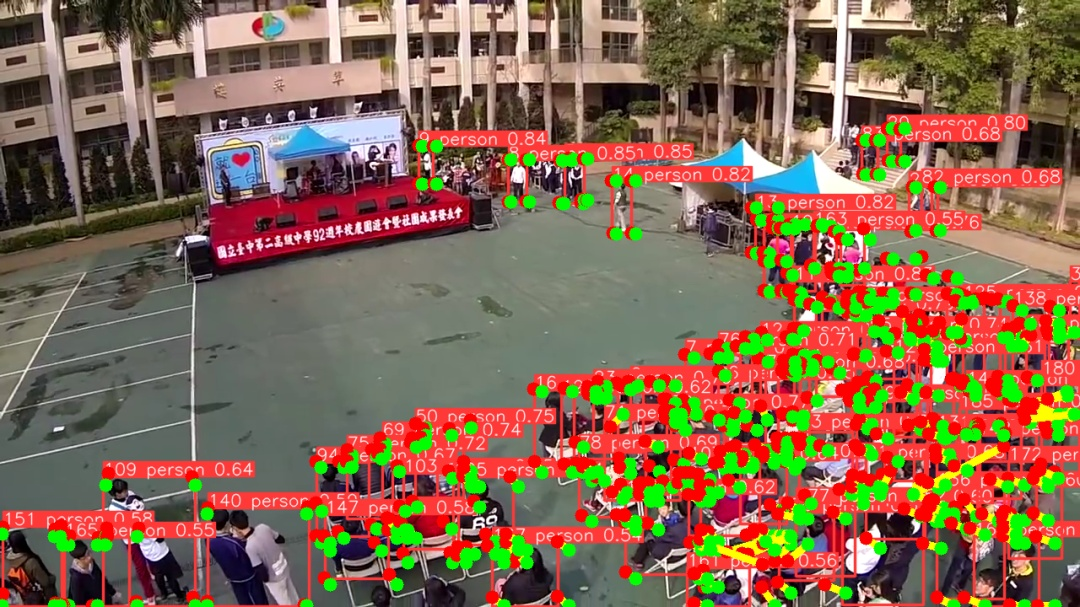
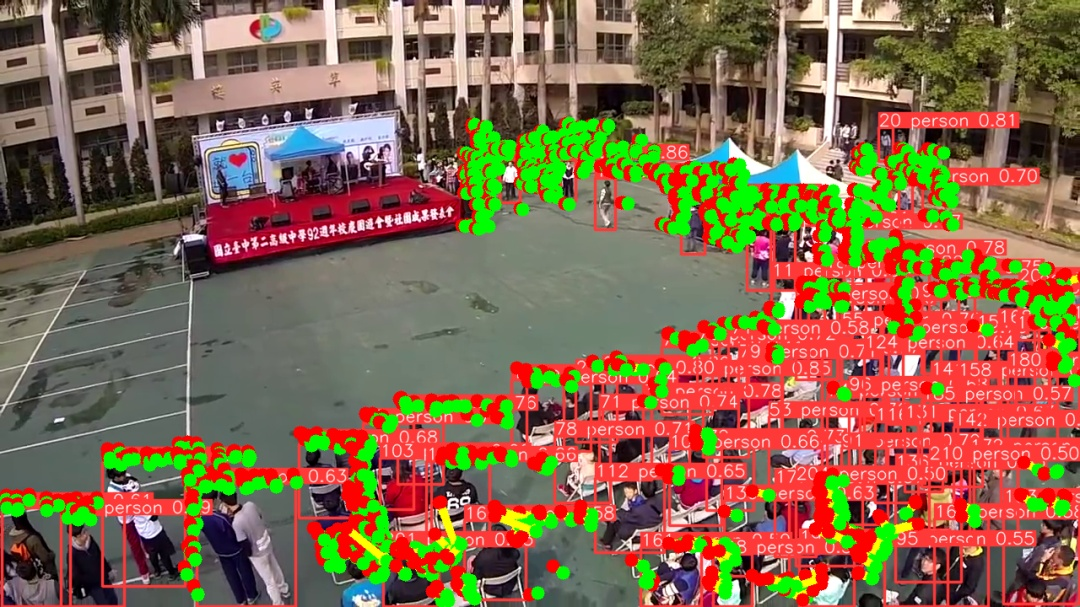
(updata)use cv2 detect keypoints & little optimize

diff --git a/optflow.py b/optflow.py
@@ -26,7 +26,7 @@ class Optflow:
             box_img = np.zeros((end_y - start_y, end_x - start_x, 3), dtype=np.int32)
             box_img[0:end_y - start_y, 0:  end_x - start_x] = 255
             mask[start_y:end_y, start_x:end_x] = box_img
-        # cv2.imwrite('mask.jpg', mask)
+        cv2.imwrite('mask.jpg', mask)
         return mask
         
     
@@ -49,20 +49,20 @@ class Optflow:
             pid = pp.id
             ppl_box = np.array(box_list[pid]).astype(np.int32)
             # 外拓，以方便獲取周圍的feature
-            ppl_box += np.array([-10, -10, 10, 10])
+            ppl_box += np.array([-50, -50, 50, 50])
             # 避免<0的位置
             for i in range(4):
                 if ppl_box[i] < 0 :
                     ppl_box[i] = 0
             # 取box範圍內的img和masked_img
             person_box_masked_img = masked_img[ppl_box[1]:ppl_box[3], ppl_box[0]:ppl_box[2], :]
+            person_box_origin_img = im0[ppl_box[1]:ppl_box[3], ppl_box[0]:ppl_box[2], :]
             # 取box範圍內的特徵點(相對位置)
-            person_outer_features = self.get_features(person_box_masked_img)
+            person_outer_features = self.get_features(person_box_origin_img, person_box_masked_img)
             
             # 相對位置->絕對位置
             for feature in person_outer_features:
                 feature += [ppl_box[0], ppl_box[1]]
-                
                 img = cv2.circle(img, (feature[0], feature[1]), 10, [0,255,0], -1)
             
             people_outer_features_dict[pp.id] = person_outer_features
@@ -71,25 +71,53 @@ class Optflow:
 
         #key: crowd_id, value : features
         return people_outer_features_dict
-    # 取人群的輪廓（最多x個點作為特徵)
-    def get_features(self, masked_img):
+    # 取人群的輪廓
+    def get_features(self, im0, masked_img):
         # 參考來源：https://iter01.com/547012.html
         # ret, binary = cv2.threshold(masked_img, 127, 255, cv2.THRESH_BINARY)
-        masked_img = cv2.cvtColor(masked_img, cv2.COLOR_BGR2GRAY)
-        masked_img = np.array(masked_img,np.uint8)
-        contours, hierarchy = cv2.findContours(masked_img, cv2.RETR_TREE, cv2.CHAIN_APPROX_SIMPLE)
-        # draw_img0 = cv2.drawContours(masked_img.copy(), contours, -1,(0,0,255),3)
         
-        contours = np.array(list(contours), dtype = object)
+        # detect : https://blog.csdn.net/amusi1994/article/details/79591205
         
-        #trans. data structure to [ [ point coordination ], [ ], ...]
-        res = np.empty(shape= (1,2), dtype=np.int64)
-        for c in contours:
-            c = c.reshape(c.shape[0]*c.shape[1], 2)
-            res = np.concatenate((res, c))
-        res = res[1:]
+        # akaze = cv2.AKAZE_create()
+        # keypoints = akaze.detect(im0, None)
         
-        return res
+        kaze = cv2.KAZE_create()
+        keypoints = kaze.detect(im0, None)
+        
+        # surf = cv2.xfeatures2d.SURF_create()
+        # keypoints = surf.detect(im0, None)
+        
+        # brisk = cv2.BRISK_create()
+        # keypoints = brisk.detect(im0, None)
+        
+        # --------
+        all_keypoints = []
+        for keypoint in keypoints:
+            keypoint = np.array(keypoint.pt, dtype= np.int32)
+            if not self.is_in_ppbox(keypoint, masked_img):
+                all_keypoints.append(keypoint)
+        all_keypoints = np.array(all_keypoints, dtype = np.int32)
+
+        # all_keypoints = np.astype(shape= (1,2), dtype=np.int64)
+        
+        # masked_img = cv2.cvtColor(masked_img, cv2.COLOR_BGR2GRAY)
+        # masked_img = np.array(masked_img,np.uint8)
+        
+        # contours, hierarchy = cv2.findContours(masked_img, cv2.RETR_TREE, cv2.CHAIN_APPROX_SIMPLE)
+        # # draw_img0 = cv2.drawContours(masked_img.copy(), contours, -1,(0,0,255),3)
+        
+        # contours = np.array(list(contours), dtype = object)
+        
+        # #trans. data structure to [ [ point coordination ], [ ], ...]
+        # res = np.empty(shape= (1,2), dtype=np.int64)
+        # for c in contours:
+        #     c = c.reshape(c.shape[0]*c.shape[1], 2)
+        #     res = np.concatenate((res, c))
+        # res = res[1:]
+        
+        
+        
+        return all_keypoints
 
                
 

diff --git a/pptrack_handler.py b/pptrack_handler.py
@@ -1,4 +1,5 @@
 from ast import Lambda
+from audioop import avg
 from faulthandler import disable
 
 from matplotlib.image import imsave
@@ -100,7 +101,7 @@ def affect_by_optflow(person_data, optflow_result):
     
     for pdata, opt_res_id in zip(person_data, optflow_result):
         optdata = optflow_result[opt_res_id]
-
+        
         #取opt res的平均位移量
         start_p_list = optdata['start']
         end_p_list = optdata['end']
@@ -119,12 +120,27 @@ def affect_by_optflow(person_data, optflow_result):
         #     scope = angle/45
         #     scope_count[scope]+= 1
         #...未完成
-        if len(vec_list)!= 0:
+        len_vec_list = len(vec_list)
+        if len_vec_list!= 0:
             for vec in vec_list:
                 total_vector += vec
-            avg_vector = total_vector/len(vec_list)
+            avg_vector = total_vector/len_vec_list
+            # print(pdata.vector, vec_list, avg_vector)
+            # for vec in vec_list:
+            #     if abs(dist(vec) - dist(avg_vector)) > 5:
+            #         total_vector -= vec
+            #         len_vec_list -= 1
+            # if len_vec_list == 0:
+            #     continue
+            avg_vector = total_vector/len_vec_list
+            # if dist(avg_vector) < 4:
+            #     continue
+            # print(pdata.vector, avg_vector)
+            print('before: ', pdata.vector)
+            print('avg_vector: ',avg_vector)
             pdata.vector -= avg_vector
-        
+            pdata.vector = [int(pdata.vector[0]), int(pdata.vector[1])]
+            print('after: ', pdata.vector)
         
             
     return person_data

diff --git a/track.py b/track.py
@@ -401,7 +401,7 @@ def run(
                                     optflow_result[id] = {"start": result0, "end": result1}
                                     
                                     optflow_output_img = optflow.draw_optflow(optflow_output_img, result0, result1)
-                            show('optfolw_result', optflow_output_img, showout = False)
+                            show('optfolw_result', optflow_output_img, showout = True)
                             
                             # !!!!!!!!!!!!!!!!optflow result (USE THIS!!!!!!!)
                             # print("optflow_result: ", optflow_result)
@@ -437,8 +437,10 @@ def run(
                             arrow_prev_time = time.time()
                             # 利用optflow結果影響person_data的vector
                             pdata = pptrack_handler.trans_data2ppdata()
-                            Flow.exec_flow_direction(pdata[0],  background, optflow_result)
-
+                            arrow_img = Flow.exec_flow_direction(pdata[0],  background, [])
+                            show("Arrow_origin", arrow_img, showout = True)
+                            arrow_img = Flow.exec_flow_direction(pdata[0],  background, optflow_result)
+                            show("Arrow_optflow", arrow_img, showout = True)
                             arrow_now_time = time.time()
                             temp = arrow_now_time-arrow_prev_time
                             total_arrow_time += temp

diff --git a/flow_direction.py b/flow_direction.py
@@ -10,7 +10,7 @@ class FlowDirection:
     def __init__(self):
         None
     def exec_flow_direction(self, person_data, background, optflow_result ):
-        edge = int((background.shape[1] + background.shape[0]/2.0)/5.0)
+        edge = int((background.shape[1] + background.shape[0]/2.0)/8.0)
         if len(person_data) == 0:
             print('no flow')
             return background
@@ -19,7 +19,6 @@ class FlowDirection:
             person_data = affect_by_optflow(person_data, optflow_result)
         res_crowd_list= self.get_crowd_list(person_data)
         arrow_img = self.draw_crowd_arrow(background, res_crowd_list, color = COLOR_CLOSE)
-        show("Arrow", arrow_img, showout = True)
         return arrow_img
 
 
@@ -44,7 +43,7 @@ class FlowDirection:
         # start = time.time()
         for pp1 in pdatas:
             # 周圍超過1人 
-            if len(pp1.nearby) < 1 or int(abs(pp1.vector[0]) + abs(pp1.vector[1])) <= 1:
+            if len(pp1.nearby) < 3 or int(abs(pp1.vector[0]) + abs(pp1.vector[1])) <= 1:
                 pp1.nearby = []
                 continue
             new_nearby = [pp1]

diff --git a/crowd.py b/crowd.py
@@ -27,7 +27,8 @@ class Crowd:
             sum_of_xy = sum_of_xy + pp.xy
             sum_of_vector = sum_of_vector + pp.vector
         start_center_xy = np.array(sum_of_xy / len(people), dtype=np.int)
-        if dist(sum_of_vector) <= 2:
+        sum_of_vector = np.array(sum_of_vector / len(people), dtype=np.int)
+        if dist(sum_of_vector) <= 4:
             return None
         res_vector = np.array(sum_of_vector, dtype = np.int)
         # thickfun : 用人數去取得箭頭的粗細

diff --git a/pptracking_util.py b/pptracking_util.py
@@ -119,7 +119,7 @@ class Arrow:
         vector = self.vector
         start = self.start
         thickness = self.thickness
-        
+        print(vector)
         points = self.get_arrow_points(vector, thickness)
         points.append(vector)
         for point in points:
